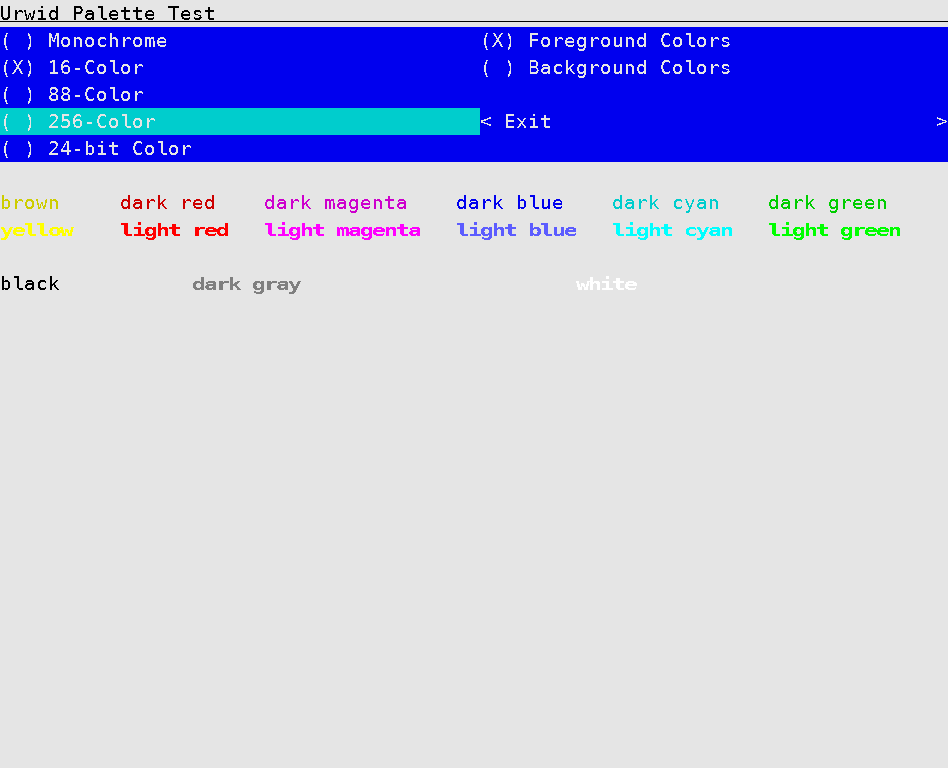
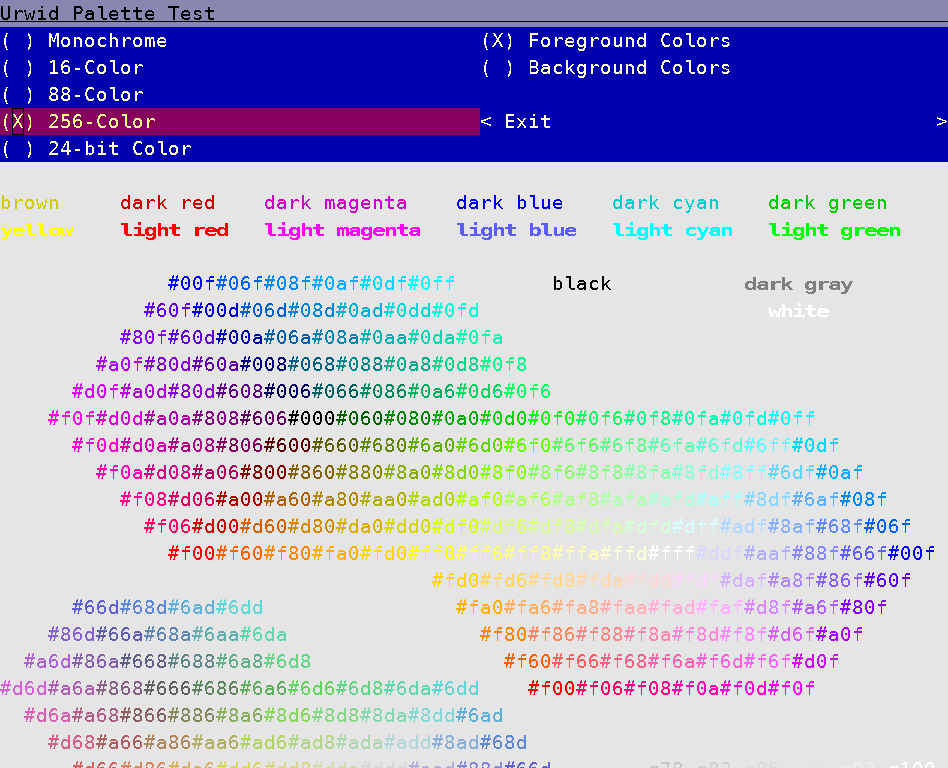
Fix(docs): xdotool race in palette_test example

diff --git a/docs/examples/index.rst b/docs/examples/index.rst
@@ -57,7 +57,7 @@ Monitor and display results from a subprocess
 palette_test.py
 ---------------
 
-.. image:: palette_test2.png
+.. image:: palette_test3.png
 
 Show available colors in various screen modes
 
